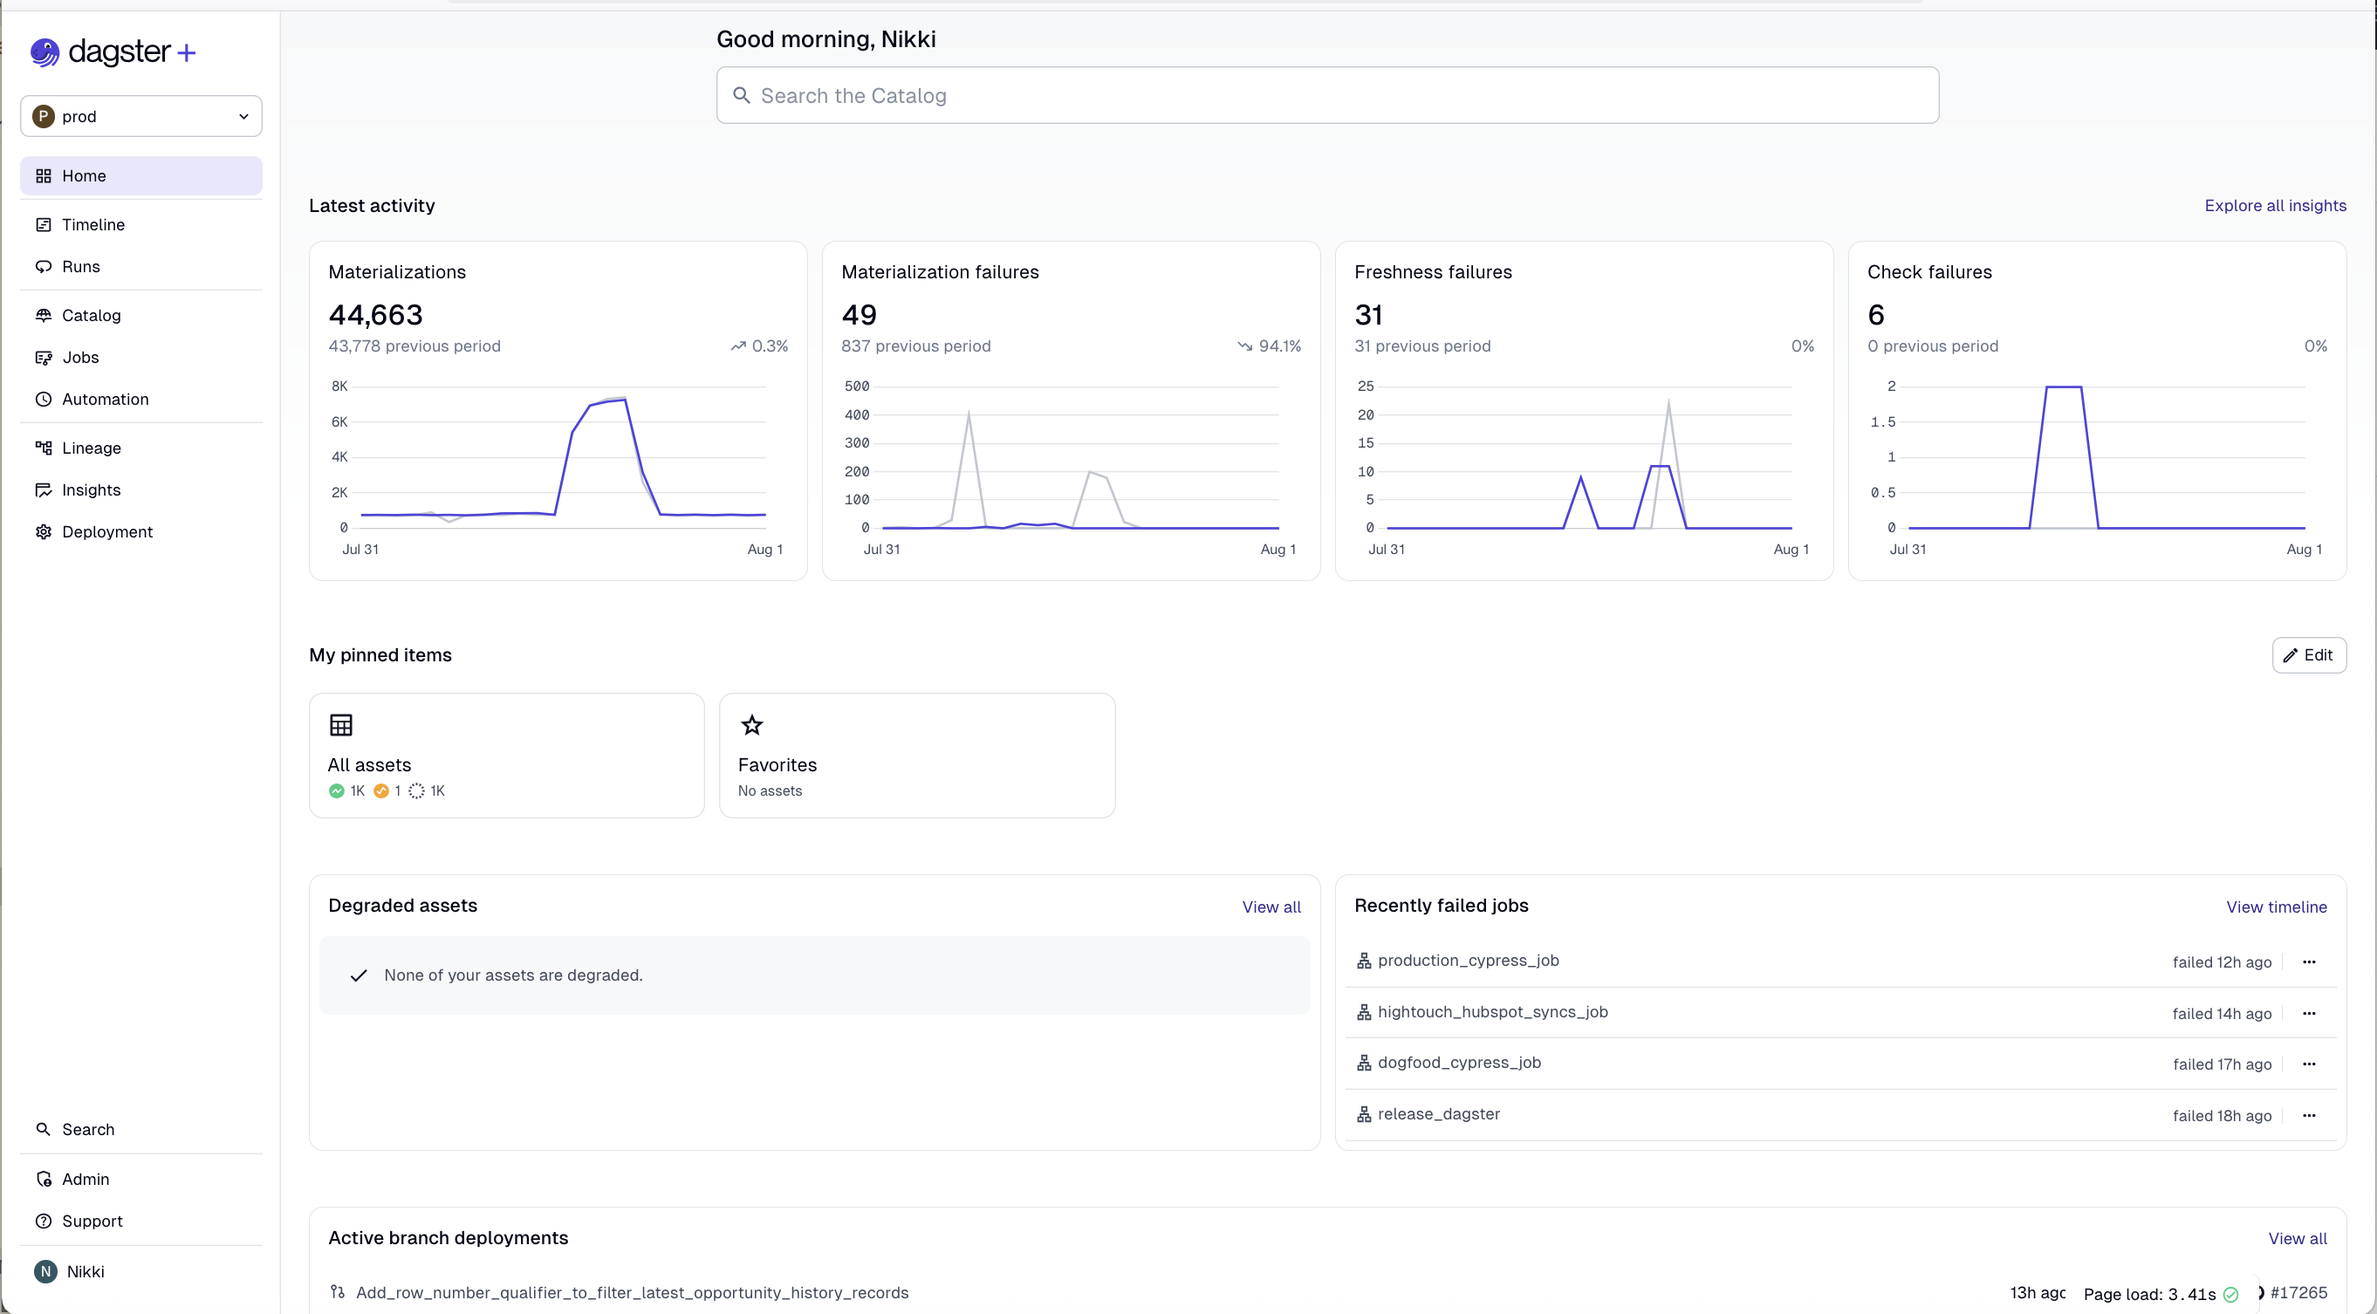
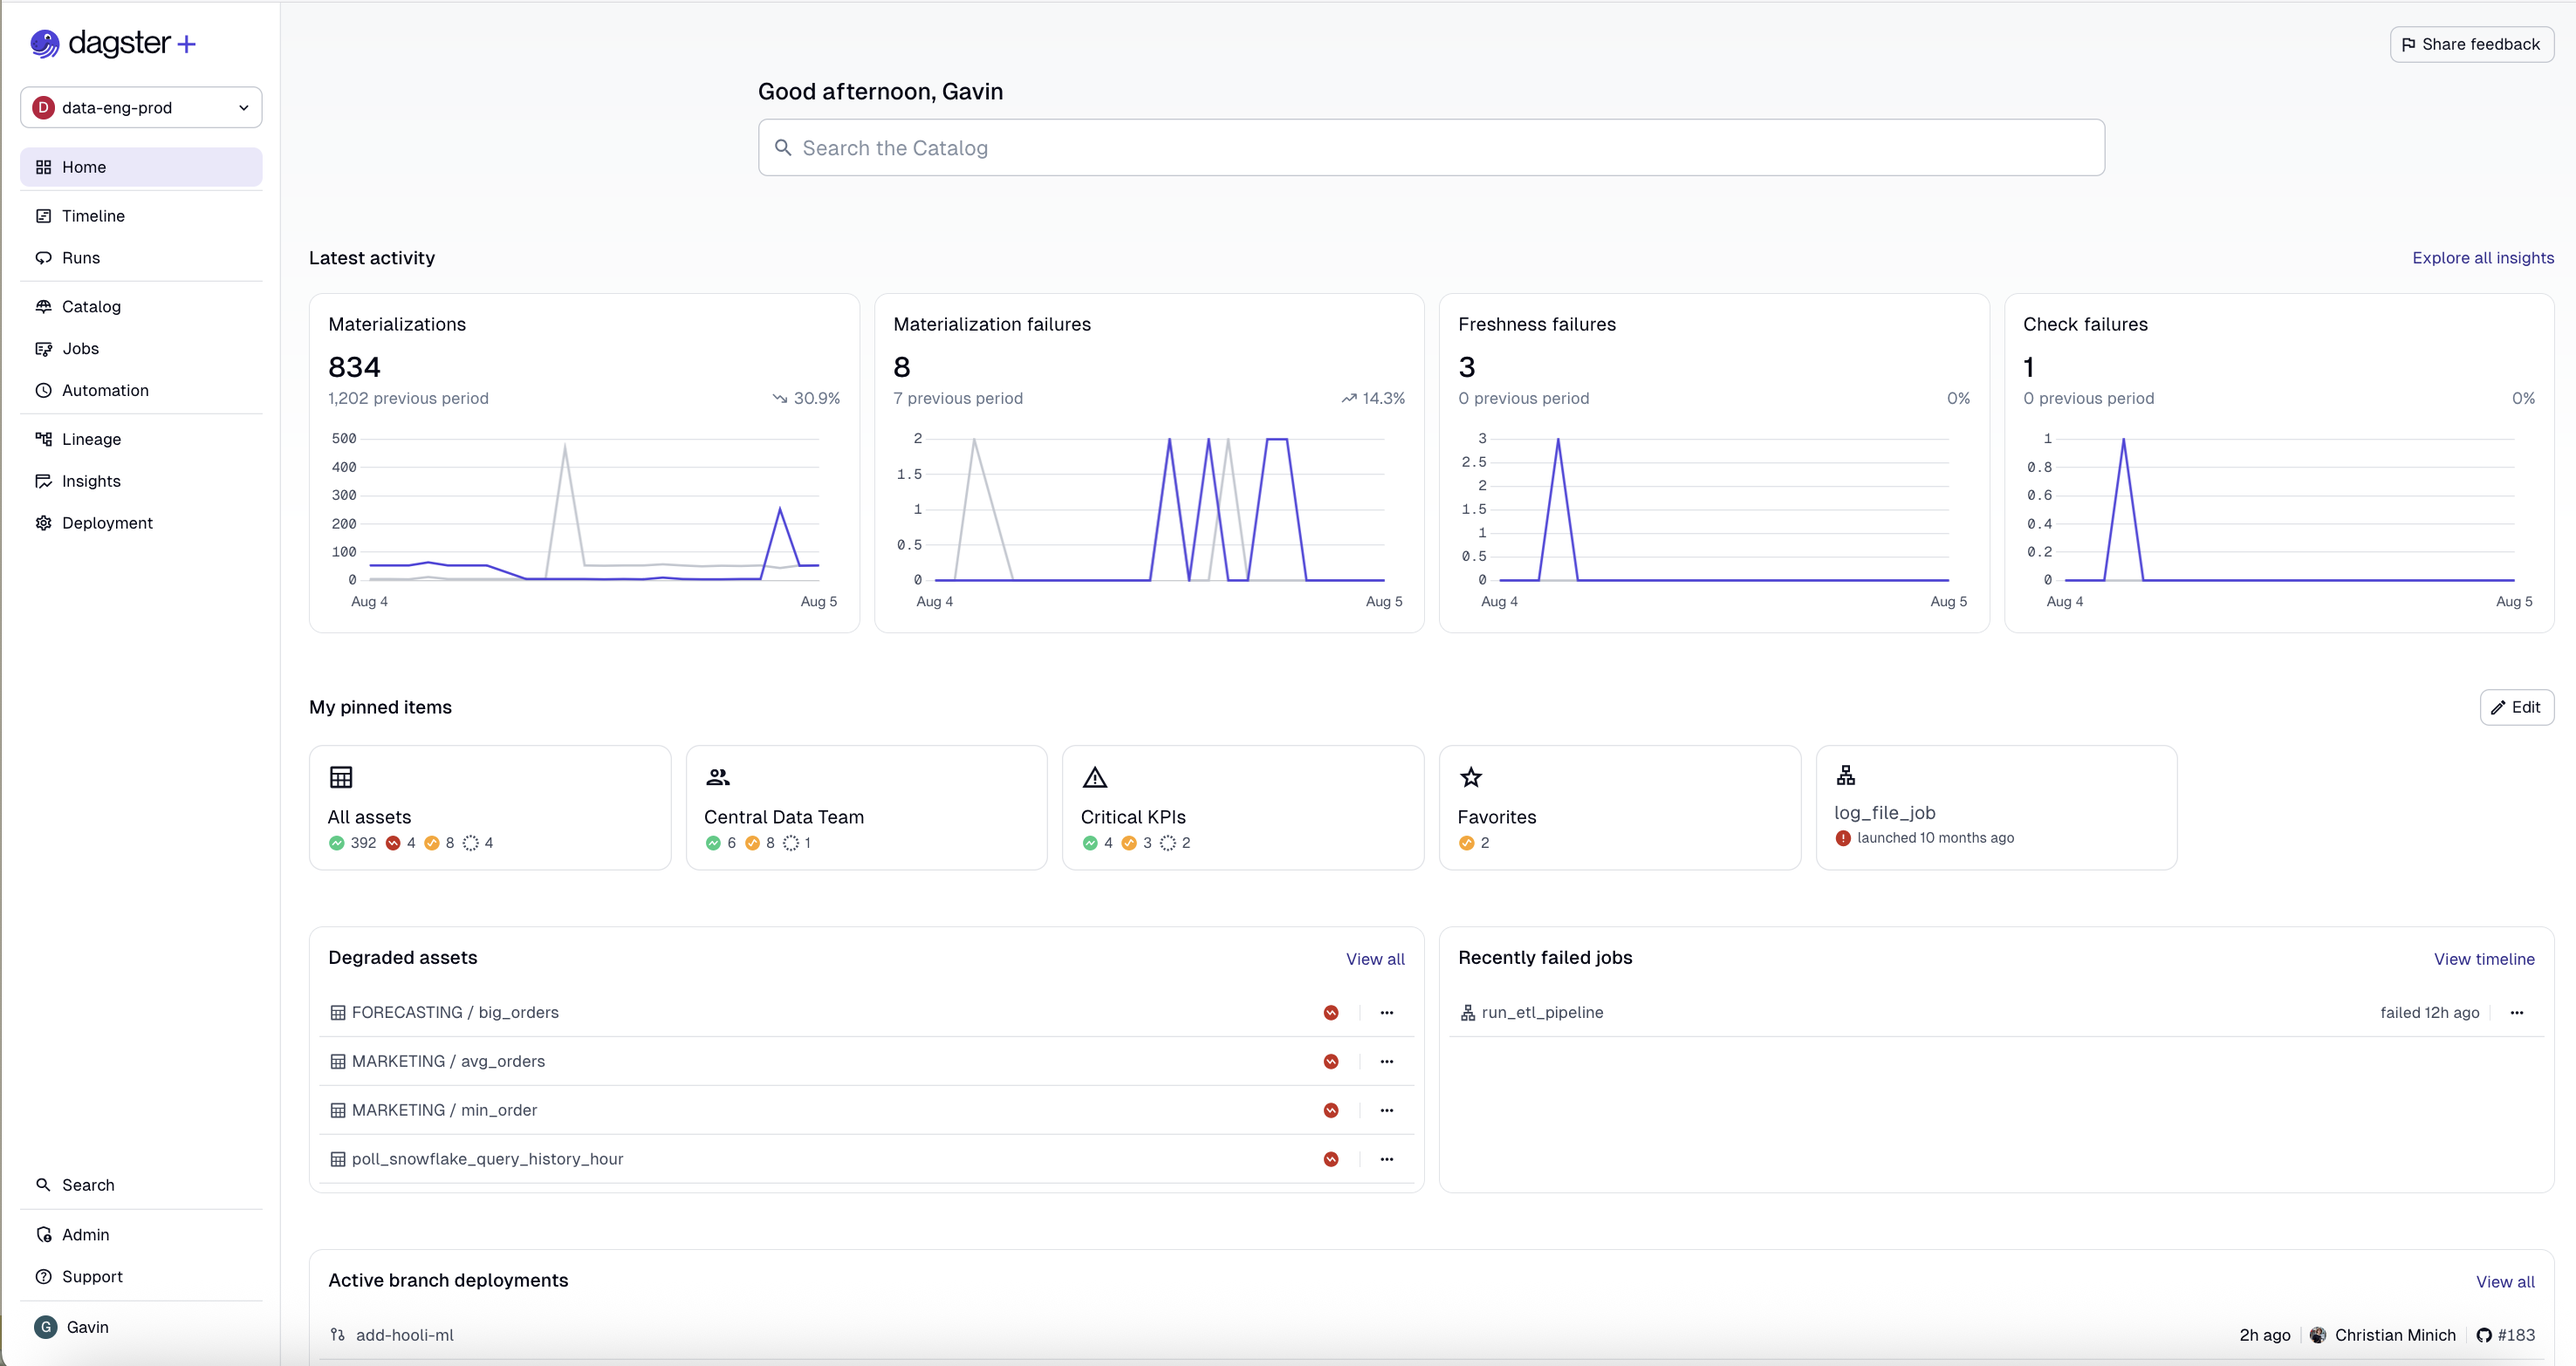
update homepage screenshot and remove asset facets content from index page

diff --git a/docs/docs/guides/labs/observability-update/index.md b/docs/docs/guides/labs/observability-update/index.md
@@ -41,19 +41,3 @@ Give teams a focused view of the data that matters most. Create flexible, sharea
 ### Freshness policies
 
 Ensure your most critical data stays fresh and trustworthy so teams can make timely, confident decisions without second-guessing the source. For more information, see the [Freshness policies guide](/guides/labs/observability-update/freshness).
-
-### Asset facets
-
-With asset facets, you can customize asset views to surface the most relevant metadata, like ownership, health, freshness, and automation signals.
-
-To configure asset facets, click the facet configuration button on the asset lineage page, then select the facets you want to display:
-
-![Asset facets configuration button](/images/guides/labs/observability-update/asset-facets-config-button.png)
-
-![Asset facets configuration modal](/images/guides/labs/observability-update/asset-facets-config-modal.png)
-
-:::info
-
-Asset facets are only configured for your view. Changing the facet configuration will not change it for other users of your data platform.
-
-:::
